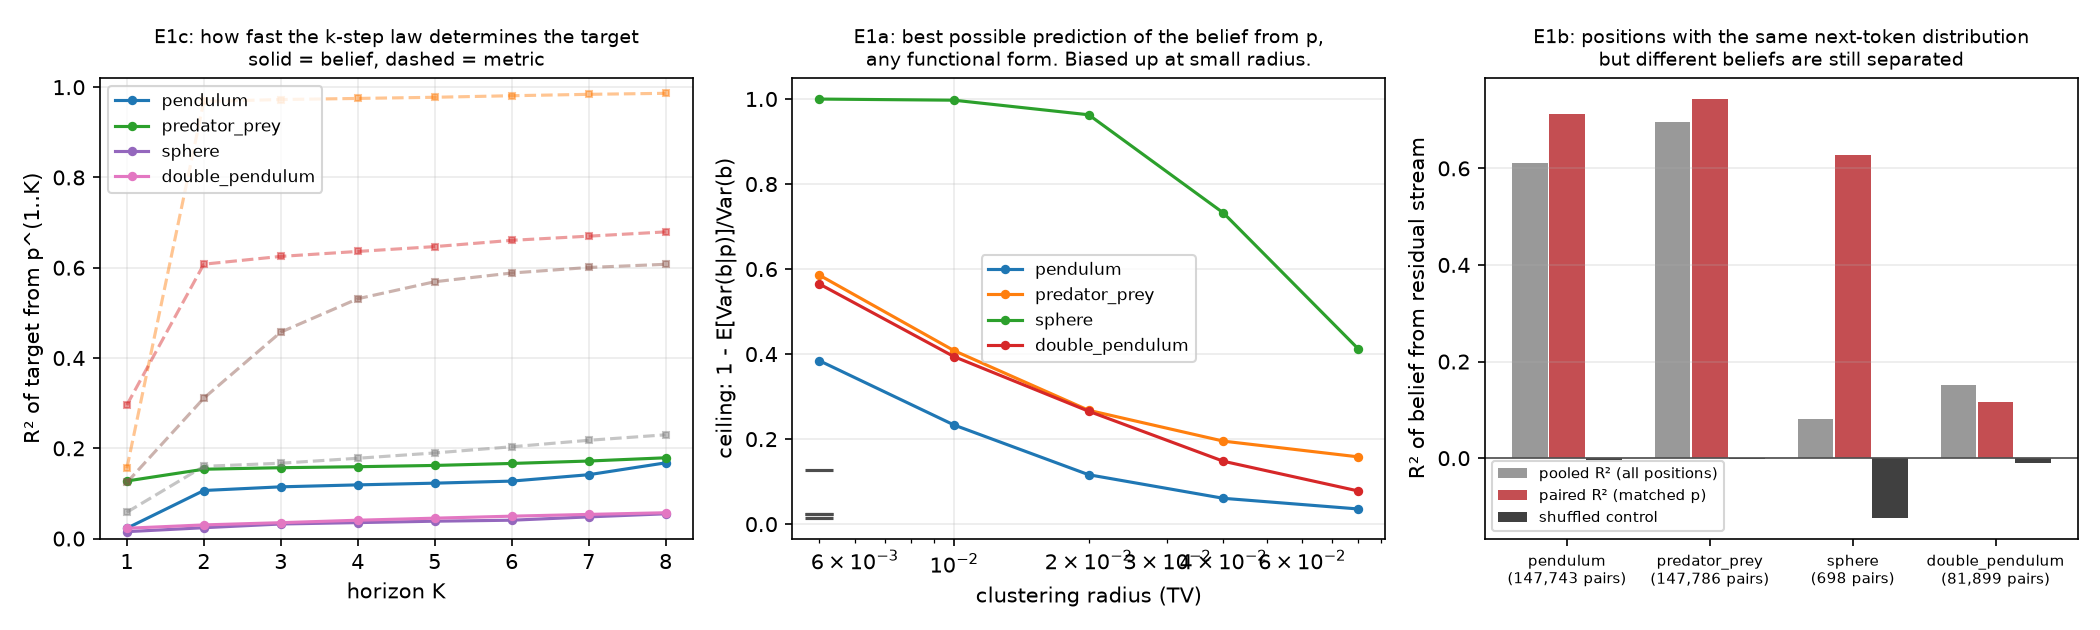
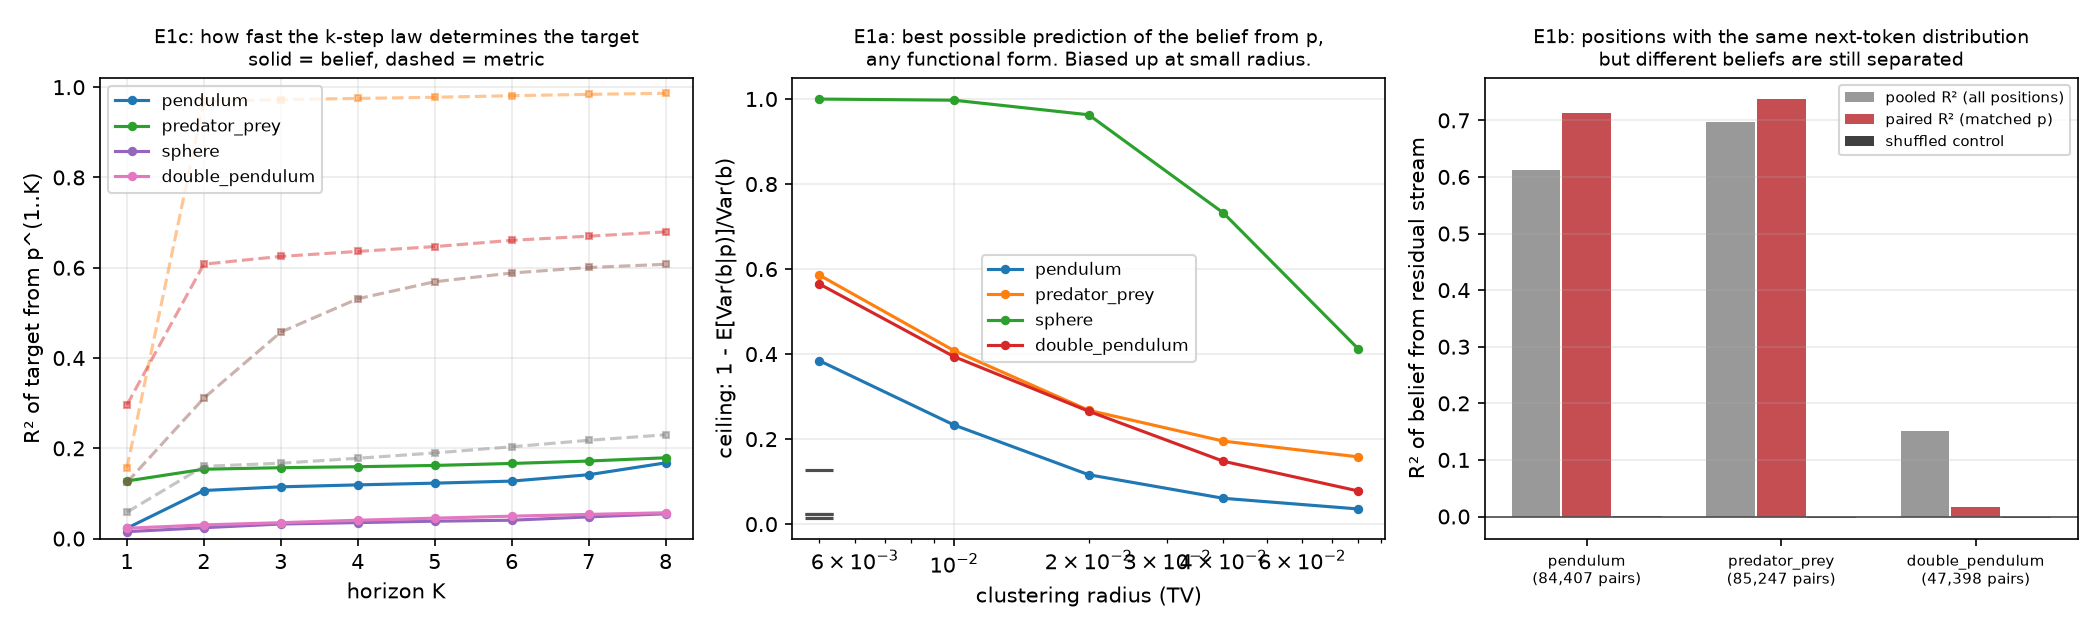
feat: E2d rollout divergence, complement patching, phase-5 figures
13_rollout.py compares the model's k-step marginal law to the exact one from the
HMM, under belief erasure, against a matched-rank random subspace whose spread is
recomputed at each k. The model's marginal is Rao-Blackwellised (average the
step-k distribution over replicas rather than histogramming sampled tokens) and
every arm shares a rollout seed.

11_causal.py additionally patches the belief-minus-metric complement, since R4
shows the complement rather than the full erasure basis is the load-bearing
object.

Changed region(s): [[0.681, 0.1206, 0.9905, 0.8444], [0.7119, 0.8746, 0.9905, 0.9349]]

diff --git a/experiments/13_rollout.py b/experiments/13_rollout.py
@@ -1,0 +1,218 @@
+"""Stage 5.6 -- E2d: does ablating the belief distort the model's k-step law?
+
+The next-token loss is nearly blind to the belief, so a t+1 ablation has almost
+no power by construction. The belief is the sufficient statistic for the whole
+future, so the place to look for its effect is the *joint* law of the next
+several tokens, which the branch HMM gives exactly.
+
+Procedure. Cut every evaluation sequence at a fixed prefix (the last position of
+a segment, where the posterior is most informed), roll the model forward k steps
+autoregressively under an intervention, and compare its k-step marginal to the
+exact `p^(k)` by KL.
+
+The model's k-step marginal is estimated Rao-Blackwellised: sample k - 1 tokens,
+then read the *distribution* at step k and average over replicas, rather than
+histogramming sampled tokens. Same estimator, far less variance.
+
+Two things make the raw KL uninterpretable and only the excess meaningful.
+Sampling error compounds with k in every arm, and any rank-r deletion costs
+something. So the quantity reported is
+
+    excess(k) = KL(ablated, k) - mean_over_controls KL(random subspace, k)
+
+with the control spread recomputed at each k, never carried over from k = 1,
+because its variance grows with k too.
+
+Run:  uv run python experiments/13_rollout.py
+Env:  OUTPUT_DIR, SYSTEMS, N_EVAL, N_ROLLOUT, K_MAX, N_CONTROL, DEPTHS, TAG.
+"""
+
+from __future__ import annotations
+
+import sys
+from pathlib import Path
+
+sys.path.insert(0, str(Path(__file__).resolve().parent.parent))
+
+import json
+import os
+import time
+
+import numpy as np
+import torch
+
+from models.ablation import _grouped_r2, erasure_basis, mean_ablate, random_basis
+from models.analysis import _sequence_split, residual_streams_batched
+from models.probe import fit_probe
+from models.train import pick_device
+from models.transformer import ModelConfig, TinyTransformer
+from physics.branch import feature_groups, forward_features
+from physics.branch_configs import BRANCH_CONFIGS, make_branch_process, scaled_kick
+from physics.myopic import predictive_stack
+
+N_EVAL = int(os.environ.get("N_EVAL", 256))
+N_ROLLOUT = int(os.environ.get("N_ROLLOUT", 32))
+K_MAX = int(os.environ.get("K_MAX", 6))
+N_CONTROL = int(os.environ.get("N_CONTROL", 8))
+TRAIN_FRAC = 0.7
+EVAL_SEED = 20_260_828
+KICK_SCALE = float(os.environ.get("KICK_SCALE", 1.0))
+TAG = os.environ.get("TAG", "")
+OUTPUT_DIR = Path(os.environ.get("OUTPUT_DIR", "experiments/outputs-03"))
+SYSTEMS = os.environ.get("SYSTEMS", ",".join(BRANCH_CONFIGS)).split(",")
+DEPTHS = os.environ.get("DEPTHS")
+
+
+def _depth_name(d: int) -> str:
+    return "embedding" if d == 0 else f"resid_post_{d - 1}"
+
+
+@torch.no_grad()
+def rollout_marginals(model, prefix, t0, k_max, n_rollout, depth, edit, generator):
+    """`(k_max, n_seq, vocab)`: the model's law for the token at `t0 + k`.
+
+    Each replica samples its own continuation, and the distribution -- not the
+    sampled token -- is what gets averaged, so the estimator is exact in the
+    limit of many replicas and already low-variance at 32.
+    """
+    n, L = prefix.shape
+    work = prefix.repeat_interleave(n_rollout, dim=0).clone()
+    out = torch.zeros(k_max, n, model.config.vocab_size, device=prefix.device)
+
+    for k in range(1, k_max + 1):
+        pos = t0 + k - 1  # the position whose output predicts token t0 + k
+        if pos + 1 >= L:
+            break
+        x = model._embed(work)
+        for i, block in enumerate(model.blocks):
+            if edit is not None and i == depth:
+                x = edit(x)
+            x = block(x)
+        if edit is not None and depth == len(model.blocks):
+            x = edit(x)
+        probs = torch.softmax(model.unembed(model.ln_f(x))[:, pos], dim=-1)
+        out[k - 1] = probs.view(n, n_rollout, -1).mean(1)
+        work[:, pos + 1] = torch.multinomial(probs, 1, generator=generator).squeeze(1)
+    return out.cpu().numpy()
+
+
+def _kl(exact, model_p):
+    """KL(exact || model), averaged over sequences. Exact is the reference, so a
+    token the model cannot produce is what should be punished."""
+    m = np.clip(model_p, 1e-9, None)
+    e = np.clip(exact, 1e-12, None)
+    return float((e * (np.log(e) - np.log(m))).sum(-1).mean())
+
+
+def main() -> None:
+    device = pick_device()
+    training = json.loads((OUTPUT_DIR / f"phase2_branch_training{TAG}.json").read_text())
+    print(f"device={device} systems={SYSTEMS} n_eval={N_EVAL} n_rollout={N_ROLLOUT} "
+          f"k_max={K_MAX}", flush=True)
+    results = {}
+
+    for name in SYSTEMS:
+        t0_wall = time.perf_counter()
+        print(f"\n=== {name} ===", flush=True)
+        process = make_branch_process(name, **scaled_kick(name, KICK_SCALE))
+        episodes = process.sample_batch(np.random.default_rng(EVAL_SEED), N_EVAL)
+        features = forward_features(process, episodes.tokens).astype(np.float64)
+        groups = feature_groups(process)
+        rng = np.random.default_rng(0)
+        train_idx, test_idx = _sequence_split(N_EVAL, TRAIN_FRAC, rng)
+        config = ModelConfig(**training[name]["model"])
+
+        model = TinyTransformer(config)
+        model.load_state_dict(torch.load(OUTPUT_DIR / f"{name}{TAG}_trained.pt", map_location=device))
+        model = model.to(device).eval()
+
+        # Cut where the posterior is most informed and a full horizon still fits.
+        sps = process.steps_per_segment
+        cut = ((process.seq_len - K_MAX - 1) // sps) * sps - 1
+        if cut < sps:
+            print(f"!! {name}: sequence too short for k_max={K_MAX}", flush=True)
+            continue
+        exact = predictive_stack(process, episodes.tokens, horizon=K_MAX)[:, cut].astype(np.float64)
+        tokens_t = torch.as_tensor(episodes.tokens, dtype=torch.long, device=device)
+        streams = residual_streams_batched(model, episodes.tokens, device)
+
+        depths = [int(x) for x in DEPTHS.split(",")] if DEPTHS else list(range(1, len(streams) - 1))
+        record = {"cut_position": int(cut), "n_rollout": N_ROLLOUT, "by_depth": []}
+
+        for depth in depths:
+            act = streams[depth].astype(np.float64)
+            d_model = act.shape[-1]
+            mean = act.reshape(-1, d_model).mean(0)
+            a_tr = act[train_idx].reshape(-1, d_model)
+            a_te = act[test_idx].reshape(-1, d_model)
+            f_tr = features[train_idx].reshape(-1, features.shape[-1])
+            f_te = features[test_idx].reshape(-1, features.shape[-1])
+            cols = groups["action_lag0"]
+            intact_r2 = _grouped_r2(fit_probe(a_tr, f_tr[:, cols]), a_te, f_te[:, cols])
+            basis, hist = erasure_basis(
+                a_tr, f_tr[:, cols], a_te, f_te[:, cols],
+                floor=max(0.02, 0.1 * intact_r2), max_rank=64,
+            )
+            if basis.shape[1] == 0:
+                continue
+            rank = basis.shape[1]
+
+            gen = torch.Generator(device=device)
+            def run(edit, seed):
+                gen.manual_seed(seed)
+                return rollout_marginals(
+                    model, tokens_t, cut, K_MAX, N_ROLLOUT, depth, edit, gen
+                )
+
+            # The same rollout seed everywhere, so the arms differ by the
+            # intervention and not by which continuations were sampled.
+            base = run(None, 12345)
+            ablated = run(mean_ablate(basis, mean), 12345)
+            controls = [
+                run(mean_ablate(random_basis(rng, d_model, rank), mean), 12345)
+                for _ in range(N_CONTROL)
+            ]
+
+            rows = []
+            for k in range(K_MAX):
+                if not np.isfinite(exact[:, k]).all():
+                    break
+                kl_base = _kl(exact[:, k], base[k])
+                kl_abl = _kl(exact[:, k], ablated[k])
+                draws = np.array([_kl(exact[:, k], c[k]) for c in controls])
+                rows.append(
+                    {
+                        "k": k + 1,
+                        "kl_intact": kl_base,
+                        "kl_ablated": kl_abl,
+                        "kl_control_mean": float(draws.mean()),
+                        "kl_control_sd": float(draws.std()),
+                        # Excess over the matched-rank control, in that control's
+                        # own spread at this k -- never carried over from k = 1.
+                        "excess": kl_abl - float(draws.mean()),
+                        "excess_in_control_sds": (
+                            (kl_abl - float(draws.mean())) / draws.std() if draws.std() > 0 else float("nan")
+                        ),
+                        "damage_over_intact": kl_abl - kl_base,
+                    }
+                )
+            record["by_depth"].append(
+                {"depth": depth, "name": _depth_name(depth), "rank": rank,
+                 "r2_before": hist[0], "r2_after": hist[-1], "by_k": rows}
+            )
+            print(f"  {_depth_name(depth):<14} rank={rank:>3}  excess KL by k: "
+                  + "  ".join(f"k{r['k']}:{r['excess']:+.4f}({r['excess_in_control_sds']:+.1f}sd)"
+                              for r in rows), flush=True)
+            print(f"  {'':<14} intact KL by k:  "
+                  + "  ".join(f"k{r['k']}:{r['kl_intact']:.4f}" for r in rows), flush=True)
+
+        results[name] = {**record, "wall_seconds": time.perf_counter() - t0_wall}
+        (OUTPUT_DIR / f"phase5_06_rollout{TAG}.json").write_text(
+            json.dumps(results, indent=2, default=float)
+        )
+
+    print(f"\nwrote {OUTPUT_DIR / f'phase5_06_rollout{TAG}.json'}", flush=True)
+
+
+if __name__ == "__main__":
+    main()

diff --git a/experiments/11_causal.py b/experiments/11_causal.py
@@ -333,6 +333,15 @@ def main() -> None:
                                     mean_ablate(random_basis(rng, act.shape[-1], r), mean)) - base_loss
                     for _ in range(N_CONTROL)
                 ] if r > 0 else [0.0]
+                # R4 shows the complement is the load-bearing object, so it is
+                # also the one to patch: the full erasure basis is dominated by
+                # redundant directions the loss does not depend on, and patching
+                # 60 of 128 directions transplants the donor's computation
+                # wholesale whatever those directions mean.
+                if r > 0:
+                    cell["e2c_patching_complement"] = e2c_patching(
+                        model, tokens_t, depth, b_only[:, :r], readout, act, predictive, rng
+                    )
                 cell["r4_complements"] = {
                     "first_principal_angle_deg": float(ang.min()),
                     "n_angles_below_10deg": int((ang < 10).sum()),
@@ -359,6 +368,11 @@ def main() -> None:
             print(f"  {'':<14} E2c cosine by patch rank: "
                   + "  ".join(f"r{q['rank']}:{q['belief']['cosine']:+.2f}/{q['random_mean_cosine']:+.2f}"
                               for q in cell["e2c_patching"]["by_rank"]), flush=True)
+            if "e2c_patching_complement" in cell:
+                q = cell["e2c_patching_complement"]["by_rank"][-1]
+                print(f"  {'':<14} E2c COMPLEMENT (belief minus metric) rank {q['rank']}: "
+                      f"cos={q['belief']['transplant_cosine']:+.3f} "
+                      f"(random {q['random_mean_transplant_cosine']:+.3f})", flush=True)
             print(f"  {'':<14} E2c transplant cosine by rank: "
                   + "  ".join(f"r{q['rank']}:{q['belief']['transplant_cosine']:+.2f}/"
                               f"{q['random_mean_transplant_cosine']:+.2f}"

diff --git a/scripts/make_phase5_figures.py b/scripts/make_phase5_figures.py
@@ -251,6 +251,30 @@ def fig_causal(causal) -> Path:
     return out
 
 
+def fig_rollout(rollout) -> Path:
+    """E2d: excess KL between the model's k-step law and the exact one."""
+    systems = list(rollout)
+    fig, axes = plt.subplots(1, len(systems), figsize=(3.5 * len(systems), 4.0), squeeze=False)
+    fig.suptitle("E2d: distortion of the model's k-step law after erasing the belief,\n"
+                 "in excess of a matched-rank random subspace. Control spread recomputed at each k.",
+                 fontsize=10)
+    for ax, name in zip(axes[0], systems):
+        for dep in rollout[name]["by_depth"]:
+            ks = [r["k"] for r in dep["by_k"]]
+            ax.errorbar(ks, [r["excess"] for r in dep["by_k"]],
+                        yerr=[r["kl_control_sd"] for r in dep["by_k"]],
+                        marker="o", ms=3.5, lw=1.3, capsize=2,
+                        label=f"{dep['name']} (rank {dep['rank']})")
+        ax.axhline(0, color="0.4", ls="--", lw=1.0)
+        ax.set_xlabel("steps ahead k"); ax.set_title(name, fontsize=9)
+        ax.grid(alpha=0.25); ax.legend(fontsize=7)
+    axes[0][0].set_ylabel("excess KL(exact || model) over random\n>0 = the belief was load-bearing")
+    fig.tight_layout(rect=(0, 0, 1, 0.90))
+    out = FIGDIR / "rollout.png"
+    fig.savefig(out, dpi=150); plt.close(fig)
+    return out
+
+
 def fig_kick_sweep(sweep) -> Path:
     """E6/C6: is claim 1 a property of the model, or of the phase-1 threshold?"""
     rows = sweep["pendulum"]
@@ -323,6 +347,7 @@ def main() -> None:
         ("phase5_03_myopic.json", (fig_myopic,)),
         ("phase5_05_causal.json", (fig_causal,)),
         ("phase5_06_kick_sweep.json", (fig_kick_sweep,)),
+        ("phase5_06_rollout.json", (fig_rollout,)),
         ("phase5_07_emergence.json", (fig_emergence,)),
     ]
     for filename, fns in jobs:

diff --git a/docs/PHASE5-METHODS.md b/docs/PHASE5-METHODS.md
@@ -19,6 +19,7 @@ stated up front.
 | `09_probe_semantics.py` | 5.2 | V2 belief-or-label, V3 token-window baseline, V5 MLP ceiling, R6 nonlinear-after-erasure, C16, C17, V6 |
 | `10_myopic.py` | 5.3-5.4 | E1a ceiling, E1b matched pairs, E1c horizon curve |
 | `11_causal.py` | 5.5-5.6 | E2a decodability horizon, E2b position-restricted, E2c patching, R4 complements |
+| `13_rollout.py` | 5.6 | E2d rollout divergence against the exact k-step law |
 | `12_emergence.py` | 5.7 | E5 matched-target coupling vs emergence |
 | `03_train_branch.py` | 5.7 | seeds and the kick sweep, via `SEED`, `KICK_SCALE`, `TAG` |
 | `scripts/make_phase5_figures.py` | - | one figure per question |
@@ -155,6 +156,17 @@ uninteresting reason. *Falsifier:* alignment at or below the matched-rank random
 subspace. Ablation asks whether removing it hurts; patching asks whether changing
 it moves the model where the interpretation says it should.
 
+**E2d, rollout divergence.** Cut every sequence at the last position of a
+segment, roll the model forward k steps autoregressively under an intervention,
+and compare its k-step marginal to the exact `p^(k)` by KL. The model's marginal
+is estimated Rao-Blackwellised: sample `k - 1` tokens, then average the
+*distribution* at step k over replicas rather than histogramming sampled tokens.
+Every arm uses the same rollout seed, so the arms differ by the intervention and
+not by which continuations were drawn. Sampling error compounds with k in every
+arm and any rank-r deletion costs something, so only `excess(k) = KL(ablated, k)
+- mean KL(random, k)` is interpretable, with the control spread recomputed at
+each k rather than carried over from k = 1.
+
 **E5, coupling versus emergence.** Within one model, a family of targets of
 matched width 3 and matched scale,
 `f_alpha = alpha * (three emission columns) + (1 - alpha) * (a random functional
@@ -186,6 +198,7 @@ uv run python experiments/08_ablation_grid.py
 uv run python experiments/09_probe_semantics.py
 uv run python experiments/10_myopic.py
 DEVICE=cpu uv run python experiments/11_causal.py
+uv run python experiments/13_rollout.py
 uv run python experiments/12_emergence.py
 uv run python scripts/make_phase5_figures.py
 ```
